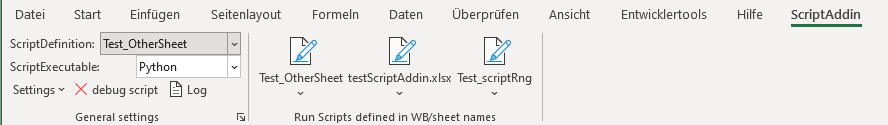
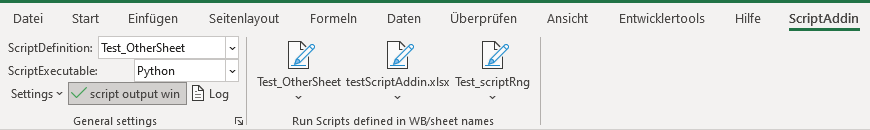
fixed bug with std input (still has problems with backspace) fixed bug with closing out window with Esc added example insertion added possibility to pass arguments to scripts added possibility to have other extensions than .txt for arg and result files

diff --git a/docs/README.md b/docs/README.md
@@ -3,7 +3,7 @@ Script Addin provides an easy way to define and run script interactions started 
 # Using ScriptAddin
 
 Running an script is simply done by selecting the desired executable (R, Python, Perl, whatever was defined) on the dropdown "ScriptExecutable" in the Script Addin Ribbon Tab and clicking "run <ScriptDefinition>"
-beneath the Sheet-button in the Ribbon group "Run Scripts defined in WB/sheets names". Activating the "debug script" toggle button opens the script output.
+beneath the Sheet-button in the Ribbon group "Run Scripts defined in WB/sheets names". With an activated "script output win" toggle button the script output is shown in an opened window.
 Selecting the Script definition in the ScriptDefinition dropdown highlights the specified definition range.
 
 When running scripts, following is executed:
@@ -43,11 +43,11 @@ In the 1st column of the Scriptdefinition range are the definition types, possib
 - `exec` (or `rexec` as a legacy compatibility with the old R Addin): an executable, being able to run the script in line "script". This is only needed for overriding the `ExePath<ScriptType>` in the AppSettings in the ScriptAddin.xll.config file.
 - `path`: path to folders with dlls/executables (semicolon separated), in case you need to add them. Only needed when overriding the `PathAdd<ScriptType>` in the AppSettings in the ScriptAddin.xll.config file.
 - `dir`: the path where below files (scripts, args, results and diagrams) are stored.
-- `script`: full path of an executable script.
-- `arg` (input objects, txt files): variable name and path/filename, where the (input) arguments are stored.
-- `res`/`rres` (output objects, txt files): variable name and path/filename, where the (output) results are expected. If the definition type is rres, results are removed from excel before saving and rerunning the script
-- `diag` (output diagrams, png format): path/filename, where (output) diagrams are expected.
-- `scriptrng`/`scriptcell` (Scripts directly within Excel): either ranges, where a script is stored (scriptrng) or directly as a cell value (text content or formula result) in the 2nd column (scriptcell)
+- `script` or `skipscript`: full path of an executable script. In case the parameter is `skipscript` then the script execution is skipped (set this dynamically to prevent scripts from running).
+- `arg` (input objects, by default these are .txt files): range name and path/filename, where the (input) arguments are stored.
+- `res`/`rres` (output objects, by default these are .txt files): range name and path/filename, where the (output) results are expected. If the definition type is rres, results are removed from excel before saving and rerunning the script
+- `diag` (output diagrams, should be png format): range name and path/filename, where (output) diagrams are expected.
+- `scriptrng`/`scriptcell` or `skipscript` (Scripts directly within Excel): either ranges, where a script is stored (scriptrng) or directly as a cell value (text content or formula result) in the 2nd column (scriptcell). In case the parameter is `skipscript` then the script execution is skipped (set this dynamically to prevent scripts from running).
 
 Scripts (defined with the `script`, `scriptrng` or `scriptcell` definition types) are executed in sequence of their appearance. Although exec, path and dir definitions can appear more than once, only the last definition is used.
 
@@ -55,7 +55,7 @@ Instead of `script`, `scriptrng` and `scriptcell` there can also be given `skips
 
 In the 2nd column are the definition values as described above.
 - For `arg`, `res`, `scriptrng` and `diag` these are range names referring to the respective ranges to be taken as arg, res, scriptrng or diag target in the excel workbook.
-- The range names that are referred in `arg`, `res`, `scriptrng` and `diag` types can also be either workbook global (having no ! in front of the name) or worksheet local (having the worksheet name + ! in front of the name)
+- The range names that are referred in `arg`, `res`, `scriptrng` and `diag` types can also be either workbook global (having no ! in front of the name) or worksheet local (having the worksheet name + ! in front of the name). They act at the same time as the filename for the input/output arguments and diagram files. So they can also contain extensions, in this case, the default extension `.txt` is not added. However for diag files, the content always has to be png format.
 - for `exec` this can either be the full path for the executable, or - in case the executable is already in the windows default path - a simple filename (like cmd.exe or perl.exe). This overrides the standard setting `ExePath<ScriptType>`.
 - for `type` any ScriptType available in the dropdown "ScriptExecutable". This overrides the selection in the dropdown "ScriptExecutable".
 - for `path`, an additional path to folders with dlls/executables (semicolon separated), in case you need to add them. This overrides the standard setting `PathAdd<ScriptType>`.
@@ -82,6 +82,8 @@ You can also run ScriptAddin in an automated way, simply issue the VBA command `
 Known Issues/Enhancements:
 
 - [ ] Implement a faster way to save textfiles from excel
+- Output redirected to the script output window is usually block buffered, so for more interactivity enable any buffer flushing (e.g. in Perl done with `$| = 1;`). Buffer flushing however only works if newlines are printed, so output is still not seen until `\n`!
+- [ ] Input in the script output window is returning ALL key char values, so `my $val = <STDIN>;` with user input of `a<BackSPC>b` will yield `a<BkSpc>b` in `$val` instead of `b`.
 
 # Installation of ScriptAddin and Settings
 
@@ -100,7 +102,7 @@ Adapt the settings in ScriptAddin.xll.config:
     <add key="LocalHelp" value="C:\YourPathToLocalHelp\LocalHelp.htm" /> : If you download this page to your local site, put it there.
     <add key="ExePathR" value="C:\Program Files\R\R-4.0.4\bin\x64\Rscript.exe" /> : The Executable Path used for R
     <add key="FSuffixR" value=".R" /> : The File suffix used when writing temporary Files used in scriptrng/scriptcell for R
-    <add key="StdErrXR" value="False" /> : Shall any output to standard err by R be regarded as an error that blocks further processing (default: True) 
+    <add key="StdErrXR" value="False" /> : Shall any output to standard err by R be regarded as an error that blocks further processing (default: True)
     <add key="ExePathPerl" value="C:\Strawberry\perl\bin\perl.exe" />
     <add key="PathAddPerl" value="C:\Strawberry\c\bin;C:\Strawberry\perl\site\bin;C:\Strawberry\perl\bin" /> : Additional Path Setting for Perl
     <add key="FSuffixPerl" value=".pl" />
@@ -109,7 +111,7 @@ Adapt the settings in ScriptAddin.xll.config:
     <add key="FSuffixPython" value=".py" />
     <add key="ExePathWinCmd" value="C:\Windows\System32\cmd.exe" />
     <add key="ExeArgsWinCmd" value="/C" /> : Any additional arguments to the script executable
-    <add key="FSuffixWinCmd" value=".cmd" /> 
+    <add key="FSuffixWinCmd" value=".cmd" />
     <add key="ExePathCscript" value="C:\Windows\System32\cscript.exe" />
     <add key="FSuffixCscript" value=".js" />
     <add key="presetSheetButtonsCount" value="24"/> : the preset maximum Button Count for Sheets (if you expect more sheets with ScriptDefinitions, you can set it accordingly)
@@ -137,10 +139,14 @@ Following ScriptExecPrefixes are possible:
 - ExePath: The Executable Path used for the ScriptType
 - PathAdd : Additional Path Setting for the ScriptType
 - FSuffix : The File suffix used when writing temporary Files used in scriptrng/scriptcell (Scripts directly within Excel), sometimes important to the script engine (e.g. cscript makes a difference between .vbs and .js)
-- StdErrX : Shall any output to standard error by the ScriptType engine be regarded as an error that blocks further processing (default: True) 
+- StdErrX : Shall any output to standard error by the ScriptType engine be regarded as an error that blocks further processing (default: True)
 - ExeArgs : Any additional arguments to the ScriptType executable
 
 The minimum requirement for a scripting engine to be regarded as selectable/usable is the ExePath entry. All other ScriptExecPrefixes are optional depending on the requirement of the scripting engine.
+
+There are three settings files which can be used to create a central setting repository (`<appSettings file="your.Central.Configfile.Path">`) along with a user specific overriding mechanism (`<UserSettings configSource="ScriptAddinUser.config"/>`) defined in the application config file ScriptAddin.xll.config. All three settings files can be accessed in the ribbon bar beneaht the dropdown `Settings`.
+
+Additionally you can find an `insert Example` mechanism in this dropdown that adds an example script definition range with the above described definition types and example configs.
 
 # Building
 
